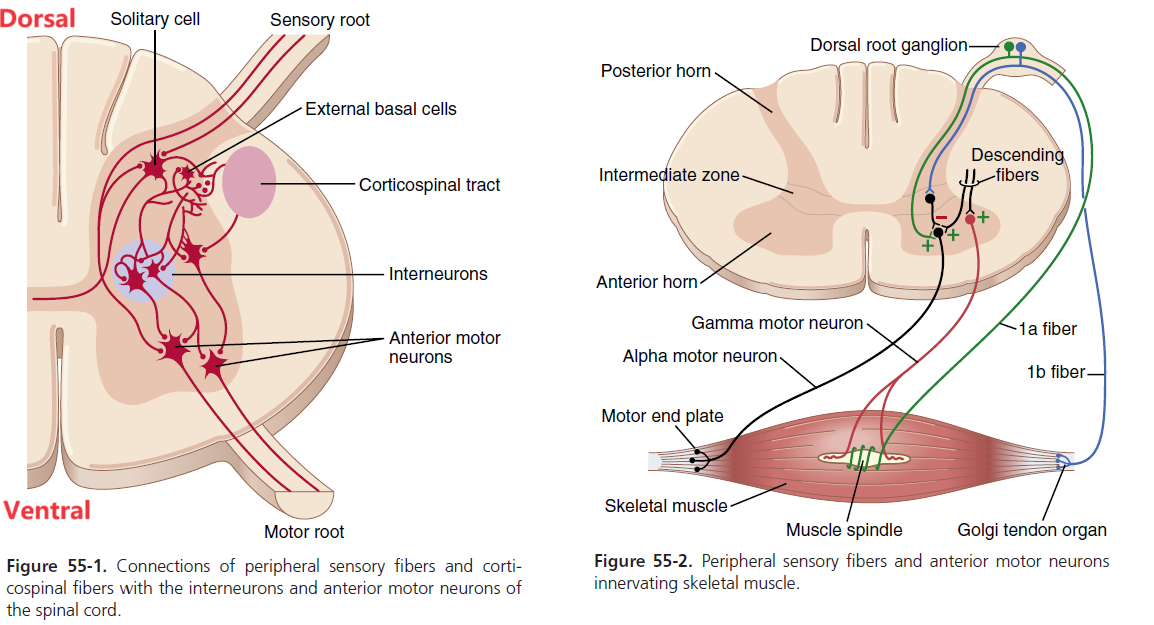
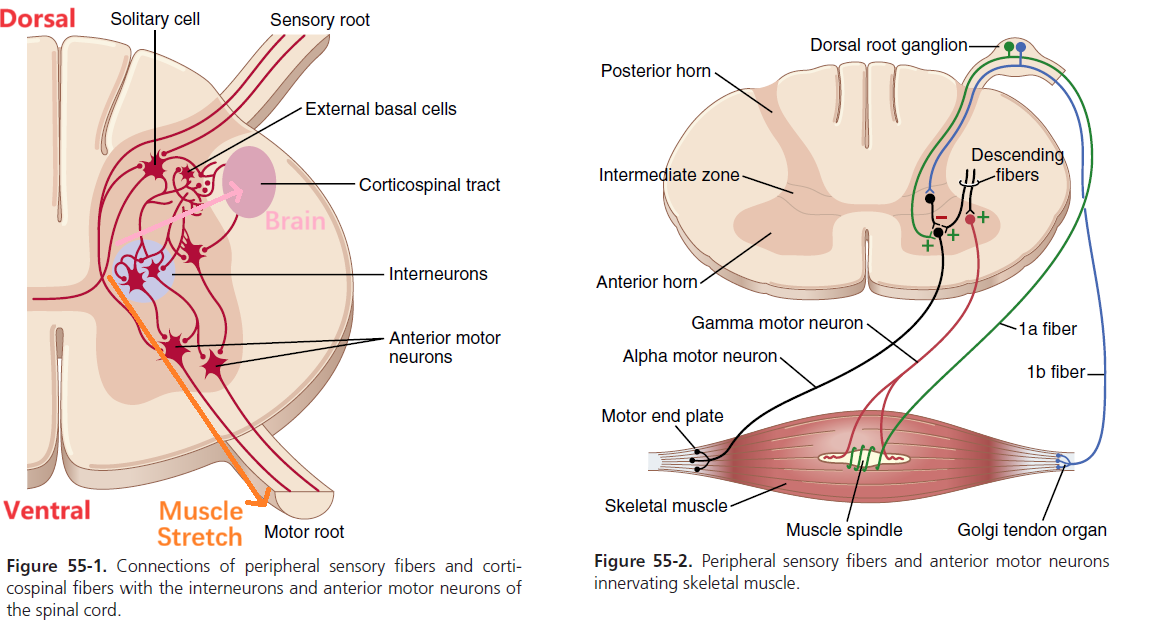
med 56

diff --git a/docs/Course/Medical_Physiology.md b/docs/Course/Medical_Physiology.md
@@ -13,7 +13,7 @@ Guyton and Hall Textbook of Medical Physiology 摘要、笔记
 
 | 计划 | 已完成进度 |
 | -- | -- |
-| 第一轮-粗略笔记 | 54 |
+| 第一轮-粗略笔记 | 55 |
 | 第二轮-纠错补缺 | -- |
 | 第三轮-复习补充 | -- |
 
@@ -1549,21 +1549,30 @@ e.g. 心肾相互作用中，右心过度充盈后使得 Renal venous congestion
 * 脊髓如何控制肌肉、接收反馈？|--> Sensory root --> Interneurons --> Motor neuron --> (Muscle Stretch) --> Sensory neuron -->|
     - Interneurons 负责汇集信号：位于灰质，小而易兴奋，经常表现出自发活动
     - Motor neuron: simultaneous/co- activation of all α/γ
-        * α nerve fibers 控制肌肉群：大且分枝，同时链接几百个骨骼肌纤维
-        * γ nerve fibers 控制肌张力：链接 Intrafusal fibers
+        * α nerve fibers 控制肌肉群：大且分枝，同时链接几百个骨骼肌纤维，链接 Extrafusal fibers
+        * γ nerve fibers 控制肌张力：链接 **Intrafusal fibers**
         * Renshaw Cells 负责侧抑制，防止信号在 Motor neuron 间胡乱扩散
-    - Sensory neuron, 链接肌肉中的感受器: 
-        * Muscle spindle: **Primary** afferent(Ia) 链接 bag/chain fiber；**Secondary** afferent(II) 只链接 chain fiber
-        * Golgi Tendon: 关于肌张力
-    - **Intrafusal fibers** 位于 Muscle spindle 中央，有两种不同形态的纤维，涉及：
-        * Dynamic response: 链接 **bag** fiber 的 Sensory neuron 可以感知肌肉的延长**速率**；由 γ-d Motor neuron 刺激收缩
+    - Sensory neuron, 链接肌肉中的感受器: 延长(+)/收缩(-)
+        * Muscle spindle (频率 & 张力): **Primary** afferent(Ia) 链接 bag/chain fiber；**Secondary** afferent(II) 只链接 chain fiber
+        * Golgi Tendon (张力)
+
+* Muscle spindle
+    - Extrafusal fibers 位于 Muscle spindle 外侧，接收 α nerve 信号
+    - **Intrafusal fibers** 位于 Muscle spindle 中央，有两种不同形态的纤维，接收 γ nerve 信号：
+        * Dynamic response: 链接 **bag** fiber 的 Sensory neuron 可以感知肌肉的延长**频率**；由 γ-d Motor neuron 刺激收缩
         * Static response: 链接 **chain** fiber 的 Sensory neuron 可以感知肌肉的延长**程度**；由 γ-s Motor neuron 刺激收缩
 
 
-* 一些重要的反射
+* 肌肉接收来自脑部的运动信号  (Brain) --> [Corticospinal tract](Medical_Physiology/56-4.png) --> Interneurons --> Motor neuron (α/γ) --> (Muscle Stretch)
+    - Antigravity contractions: γ 接收来自脑干的信号(bulboreticular facilitatory region)，保持重力平衡，例如维持平举姿态
+    - 再上游的信号来自 cerebellum / basal ganglia / cerebral cortex
+
+
+* 一些重要的脊髓反射
     - [Muscle Stretch Reflex](Medical_Physiology/55-5.png)：对抗肌肉的突然拉伸(Dynamic)，使肌肉收缩的程度合理(Static)
         * Muscle Spindle Reflex：脊椎的信号是不平滑的，Muscle spindle 平滑/damping这些信号，使肌肉的运动相对稳定
     - [Golgi Tendon Reflex](Medical_Physiology/55-8.png)：令张力过大的肌肉松弛，保护肌肉免受过度紧张
+        * Muscle Spindle / Golgi Tendon 会通过 dorsal spinocerebellar tracts **向 cerebellum 输送信号，以感知时空位置**
     - [Flexor/Withdrawal Reflex & Crossed Extensor Reflex](Medical_Physiology/55-9.png)：当遭遇疼痛时，屈曲肌肉、抽回手；并且弯曲另一边的腿、进一步后退
     - 姿态和运动的反射，保证身体协调
     - 自主神经系统的反射：血管张力, ...
@@ -1575,8 +1584,49 @@ e.g. 心肾相互作用中，右心过度充盈后使得 Renal venous congestion
 
 
 
-## Ch 56 Motor: 大脑皮层 脑干(TBA)
+## Ch 56 Motor: 大脑皮层 脑干
+
+* [皮层负责灵巧/精细动作](Medical_Physiology/56-1.png)
+    - Primary motor cortex 中的区域对应不同的部位，其中单个神经元对应一组肌肉，可以组合成不同的运动模式
+    - Premotor area 负责更加复杂的动作，其前区中的 mirror neurons 生成运动图像，发送给后区生成激活图像所需的指令（连续的肌肉激活模式），随后发送给 Primary motor cortex
+    - Supplementary area 的信号发送给身体双侧，负责协同工作，例如眼球、双侧抓握运动
+
+
+* 皮层信号如何[传送至脊髓/feedback](Medical_Physiology/56-6.png)：脊髓外侧运动系统(the lateral motor system of the cord)
+    - [Corticospinal tract](Medical_Physiology/56-4.png) 接收来自  Primary motor cortex(30%) + Premotor/Supplementary area(30%) + Somatosensory areas(40%) 的信号，信号左右交叉(Lateral)或保持同侧(Ventral)
+    - [Corticorubrospinal pathway](Medical_Physiology/56-5.png) 经过 Red nucleus 接收 Primary motor cortex 的信号，与 Corticospinal tract 平行，可视为其补充信号
+    
+    
+* (Ch 48) Motor Cortex 神经元也成柱状排列，每柱共6层：2-4层接收输入信号，6层与皮层其他区域通信。包括两种神经元：
+    - Dynamic Neurons 信号激烈但短暂，Red nucleus 中其占比较大
+    - Static Neurons 信号舒缓但持久，Primary motor cortex 中其占比较大
+
+
+* [脑干(Brain stem)](Medical_Physiology/56-7.png) 由髓质(Medulla)、脑桥(Pons)、中脑(Mesencephalon/Midbrain)组成。
+    - 控制呼吸、心血管系统、肠胃、平衡、眼球、重力对抗、...
+    - Pontine reticular nuclei 向 Vestibular nuclei 发送轴向肌肉兴奋信号，而 Medullary reticular nuclei 向 Corticospinal/Rubrospinal tract 发送抑制信号，二组相互对抗
+    
+    
+* 获取重力平衡感知：[耳中](Medical_Physiology/56-9.png)细胞感知移动，向前庭发送信号，调整身体姿态以适应新的速度
+    - Maculae and statoconia 感受线性加速度（覆盖细胞的粘液 & 惯性）
+    - Cupula 感受旋转（淋巴液 & 惯性）----- [(Ch 52) oculomotor nuclei 反射](Medical_Physiology/52-8.png)，使眼睛适应头部的突然旋转
+
+
 ## Ch 57 Motor: 小脑 基底神经节(TBA)
+
+
+
+
+
+
+
+
+
+
+
+
+
+
 ## Ch 58 记忆: 大脑皮层(TBA)
 ## Ch 59 (TBA)
 ## Ch 60 (TBA)
